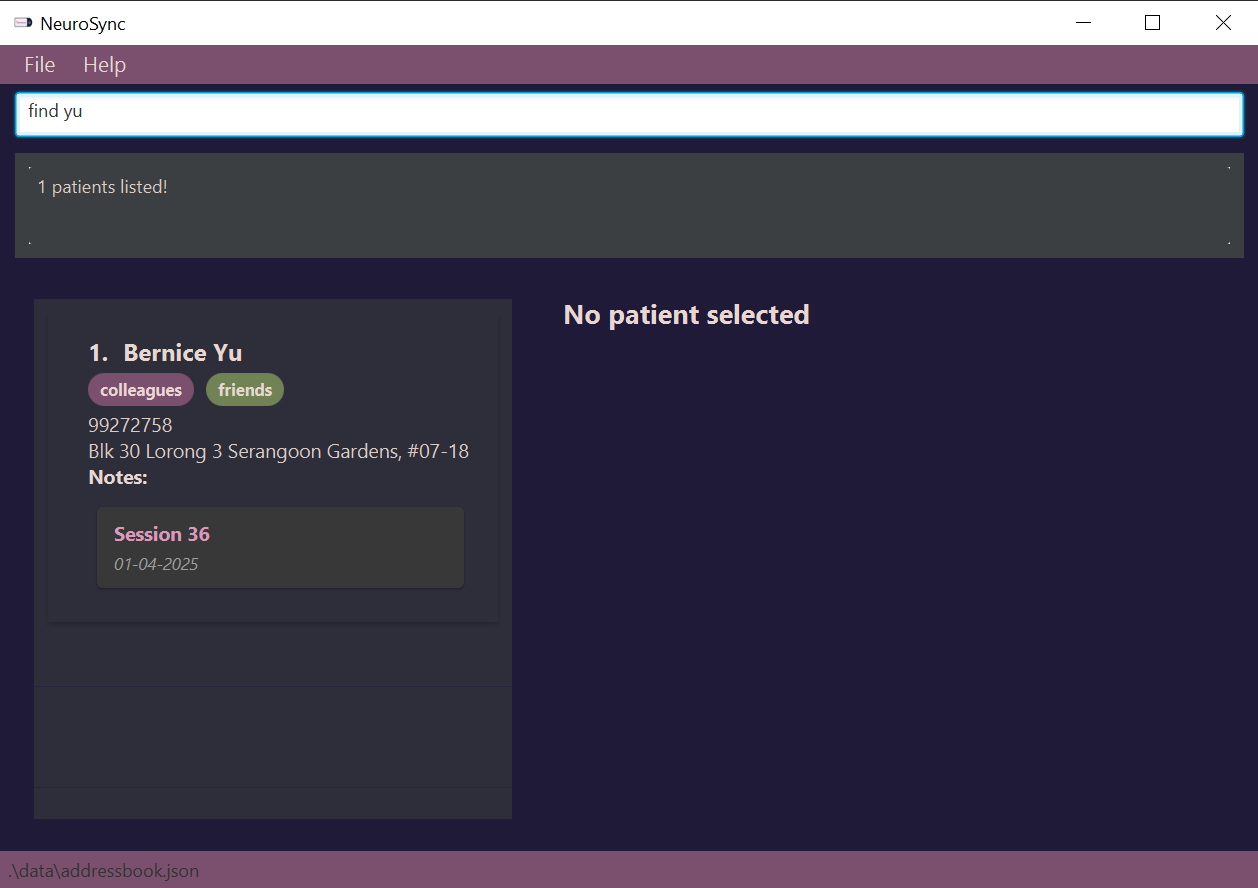
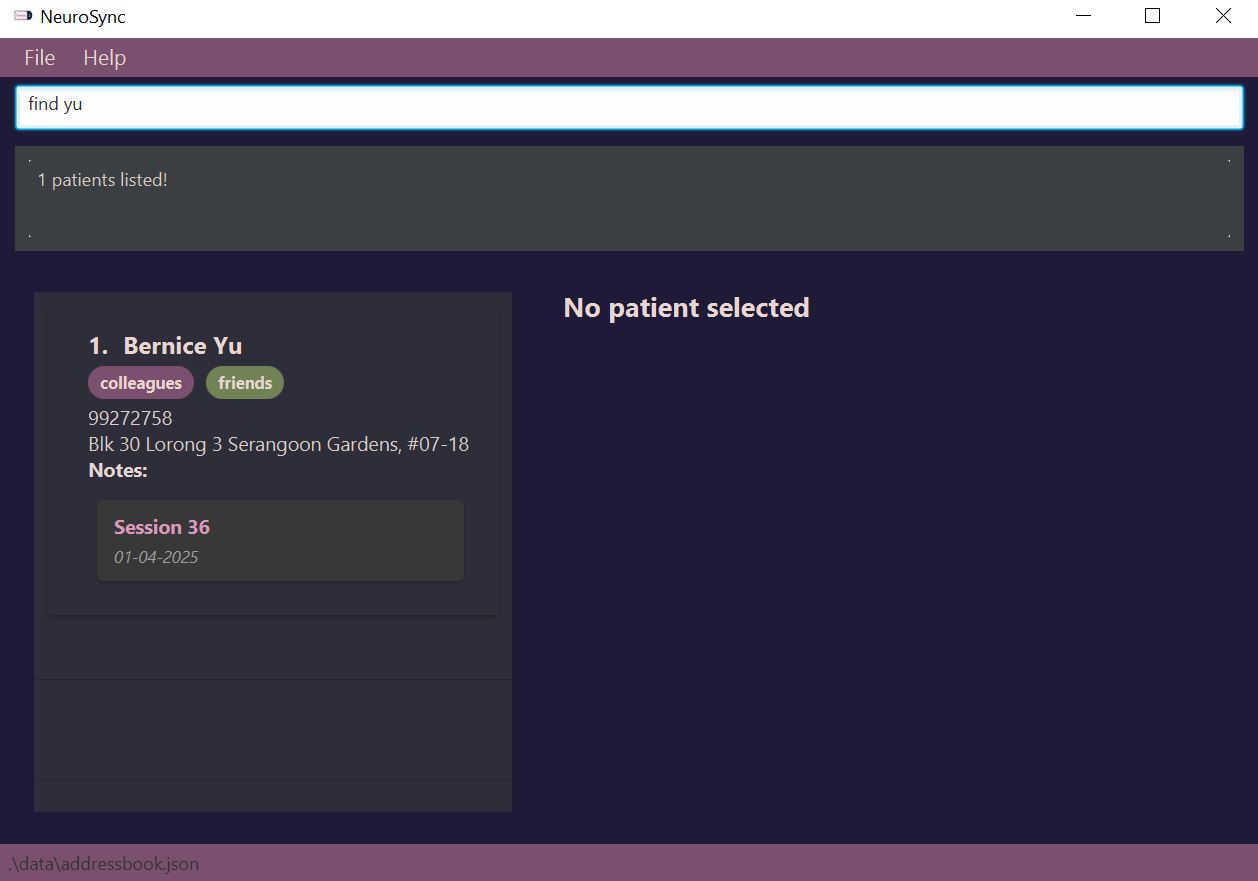
Fix certain screenshots cropped wrongly

diff --git a/src/main/java/seedu/address/ui/HelpWindow.java b/src/main/java/seedu/address/ui/HelpWindow.java
@@ -15,7 +15,7 @@ import seedu.address.commons.core.LogsCenter;
  */
 public class HelpWindow extends UiPart<Stage> {
 
-    public static final String USERGUIDE_URL = "https://se-education.org/addressbook-level3/UserGuide.html";
+    public static final String USERGUIDE_URL = "https://ay2425s2-cs2103t-f13-1.github.io/tp/UserGuide.html";
     public static final String HELP_MESSAGE = "Refer to the user guide: " + USERGUIDE_URL;
 
     private static final Logger logger = LogsCenter.getLogger(HelpWindow.class);
